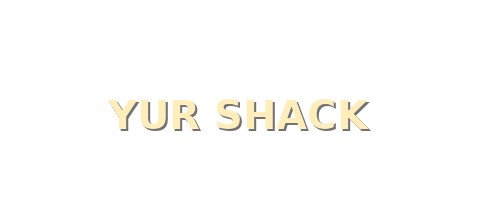
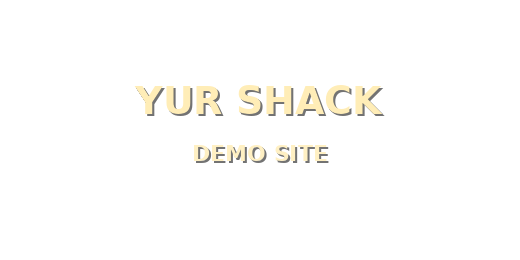
Label the live build as a Yur Shack demo site.
Update the watermark tile to “YUR SHACK / DEMO SITE”, add a sticky demo banner, and clarify the footer credit.

Changed region(s): [[0.2188, 0.3273, 0.7812, 0.6273]]

diff --git a/styles.css b/styles.css
@@ -166,7 +166,7 @@ a {
   object-fit: cover;
   object-position: center 40%;
   transform: scale(1.04);
-  animation: hero- ken 22s var(--ease) both;
+  animation: hero-ken 22s var(--ease) both;
 }
 
 .hero-wash {
@@ -313,6 +313,117 @@ a {
   background:
     radial-gradient(ellipse 80% 50% at 50% 0%, rgba(158, 26, 26, 0.22), transparent 60%),
     linear-gradient(180deg, var(--ink), var(--ink-soft) 40%, var(--ink));
+}
+
+.menu-search {
+  width: min(36rem, 100%);
+  margin: 0 auto 1.5rem;
+}
+
+.menu-search__label {
+  display: block;
+  margin-bottom: 0.45rem;
+  font-family: var(--font-body);
+  font-size: 0.72rem;
+  font-weight: 600;
+  letter-spacing: 0.1em;
+  text-transform: uppercase;
+  color: var(--gold);
+  text-align: center;
+}
+
+.menu-search__row {
+  display: flex;
+  gap: 0.5rem;
+  align-items: stretch;
+}
+
+.menu-search__input {
+  flex: 1;
+  appearance: none;
+  border: 1px solid rgba(245, 223, 160, 0.35);
+  background: rgba(247, 240, 228, 0.06);
+  color: var(--paper);
+  font-family: var(--font-body);
+  font-size: 1rem;
+  padding: 0.75rem 1rem;
+  border-radius: 2px;
+  outline: none;
+  transition: border-color 0.2s var(--ease), background 0.2s var(--ease);
+}
+
+.menu-search__input::placeholder {
+  color: rgba(247, 240, 228, 0.4);
+}
+
+.menu-search__input:focus {
+  border-color: var(--gold);
+  background: rgba(247, 240, 228, 0.1);
+}
+
+.menu-search__clear {
+  appearance: none;
+  border: 1px solid rgba(245, 223, 160, 0.35);
+  background: transparent;
+  color: var(--paper-dim);
+  font-family: var(--font-body);
+  font-size: 0.75rem;
+  font-weight: 600;
+  letter-spacing: 0.06em;
+  text-transform: uppercase;
+  padding: 0 0.9rem;
+  cursor: pointer;
+}
+
+.menu-search__clear:hover {
+  color: var(--ink);
+  background: var(--gold);
+  border-color: var(--gold);
+}
+
+.menu-search__status {
+  margin: 0.65rem 0 0;
+  text-align: center;
+  font-size: 0.88rem;
+  color: var(--paper-dim);
+  line-height: 1.45;
+}
+
+.menu-search__status .search-syn {
+  color: var(--gold);
+}
+
+.search-suggests {
+  display: inline-flex;
+  flex-wrap: wrap;
+  gap: 0.4rem;
+  justify-content: center;
+  margin-top: 0.45rem;
+  vertical-align: middle;
+}
+
+.search-suggest {
+  appearance: none;
+  border: 1px solid rgba(245, 223, 160, 0.45);
+  background: rgba(245, 223, 160, 0.1);
+  color: var(--gold-bright);
+  font-family: var(--font-body);
+  font-size: 0.8rem;
+  padding: 0.35rem 0.7rem;
+  cursor: pointer;
+  border-radius: 2px;
+}
+
+.search-suggest:hover {
+  background: var(--gold);
+  color: var(--ink);
+  border-color: var(--gold);
+}
+
+body.menu-searching .menu-item.is-search-hit,
+body.menu-searching .box-card.is-search-hit {
+  outline: 1px solid rgba(158, 26, 26, 0.25);
+  background: rgba(158, 26, 26, 0.06);
 }
 
 .menu-nav {
@@ -712,6 +823,45 @@ a {
   color: var(--gold-bright);
 }
 
+/* Demo site banner (Yur Shack live build) */
+.demo-banner {
+  position: sticky;
+  top: 0;
+  z-index: 90;
+  display: flex;
+  flex-wrap: wrap;
+  align-items: center;
+  justify-content: center;
+  gap: 0.35rem 0.55rem;
+  padding: 0.45rem 1rem;
+  background: linear-gradient(90deg, rgba(158, 26, 26, 0.95), rgba(90, 18, 14, 0.96));
+  color: var(--paper);
+  font-family: var(--font-body);
+  font-size: 0.72rem;
+  font-weight: 600;
+  letter-spacing: 0.12em;
+  text-transform: uppercase;
+  border-bottom: 1px solid rgba(245, 223, 160, 0.35);
+}
+
+.demo-banner a {
+  color: var(--gold-bright);
+  text-decoration: underline;
+  text-underline-offset: 0.18em;
+}
+
+.demo-banner__sep {
+  opacity: 0.55;
+}
+
+body:has(.demo-banner) .topbar {
+  top: 2.05rem;
+}
+
+body:has(.demo-banner) .hero {
+  padding-top: clamp(7rem, 14vh, 9.5rem);
+}
+
 /* ——— Yur Shack watermark (PNG tile — reliable text, no CSS/SVG font issues) ——— */
 .yur-shack-watermark {
   position: fixed;
@@ -721,8 +871,8 @@ a {
   opacity: 0.7;
   background-image: url("assets/yur-shack-wm.png");
   background-repeat: repeat;
-  background-size: 420px 200px;
-  transform: rotate(-28deg) scale(1.5);
+  background-size: 460px 230px;
+  transform: rotate(-28deg) scale(1.45);
   transform-origin: center center;
   width: 180%;
   height: 180%;

diff --git a/index.html b/index.html
@@ -14,10 +14,15 @@
   <link rel="preconnect" href="https://fonts.googleapis.com">
   <link rel="preconnect" href="https://fonts.gstatic.com" crossorigin>
   <link href="https://fonts.googleapis.com/css2?family=Cormorant+Garamond:wght@500;600;700&family=Sora:wght@400;500;600;700&display=swap" rel="stylesheet">
-  <link rel="stylesheet" href="styles.css?v=wm2">
+  <link rel="stylesheet" href="styles.css?v=demo-search">
 </head>
 <body>
   <div class="yur-shack-watermark" aria-hidden="true"></div>
+  <div class="demo-banner" role="status">
+    <span>Demo site</span>
+    <span class="demo-banner__sep" aria-hidden="true">·</span>
+    <span>Built by <a href="https://yurshack.co.uk" rel="noopener">Yur Shack</a></span>
+  </div>
 
   <a class="skip" href="#menu">Skip to menu</a>
 
@@ -62,6 +67,23 @@
         <h2>Full menu</h2>
         <p>Prices from the printed takeaway menu. Allergen advice available when you order — please mention any requirements.</p>
         <div class="section-rule" aria-hidden="true"></div>
+      </div>
+
+      <div class="menu-search" role="search">
+        <label class="menu-search__label" for="menuSearch">Search the menu</label>
+        <div class="menu-search__row">
+          <input
+            id="menuSearch"
+            class="menu-search__input"
+            type="search"
+            placeholder="Try shrimp, curry, chips, won ton…"
+            autocomplete="off"
+            spellcheck="true"
+            enterkeyhint="search"
+          >
+          <button type="button" id="menuSearchClear" class="menu-search__clear" hidden>Clear</button>
+        </div>
+        <p id="menuSearchStatus" class="menu-search__status" hidden></p>
       </div>
 
       <div class="menu-nav" id="menuNav" role="tablist" aria-label="Menu categories"></div>
@@ -146,7 +168,7 @@
     <img src="assets/fusion-logo.png" width="56" height="56" alt="">
     <p>Fusion Kilmacolm · Chinese &amp; Thai takeaway</p>
     <p class="fine">Menu prices may change — confirm when ordering.</p>
-    <p class="fine yur-shack-credit">Site by <a href="https://yurshack.co.uk" rel="noopener">Yur Shack</a></p>
+    <p class="fine yur-shack-credit">Demo site by <a href="https://yurshack.co.uk" rel="noopener">Yur Shack</a></p>
   </footer>
 
   <script src="menu-data.js"></script>
